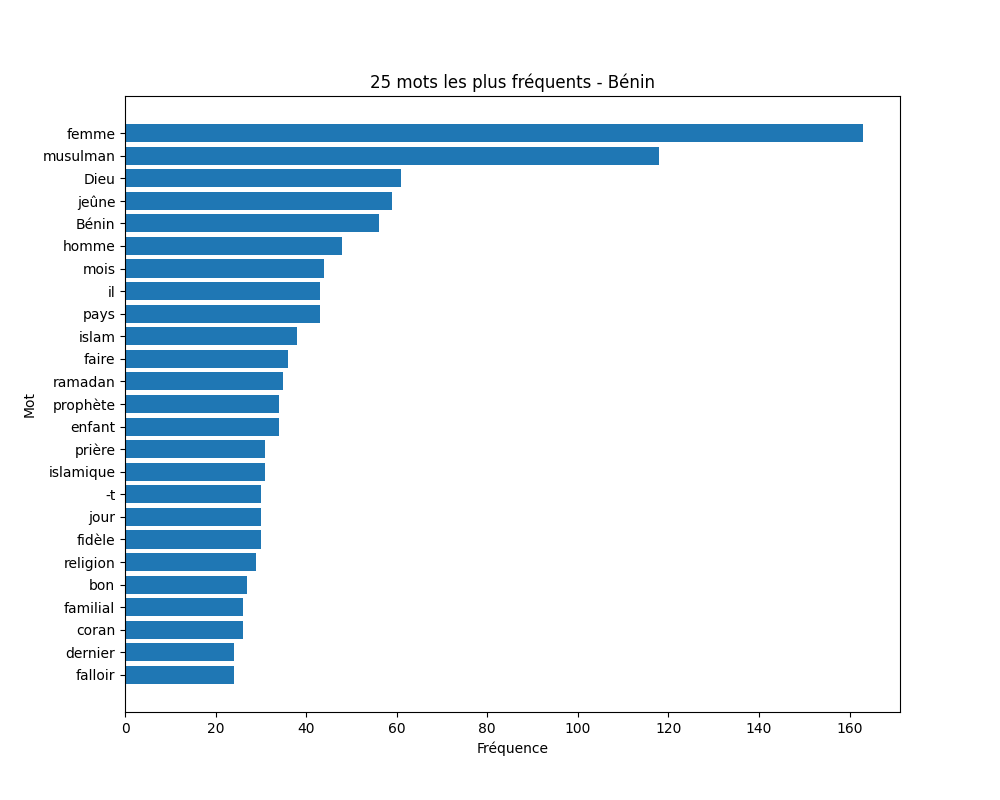
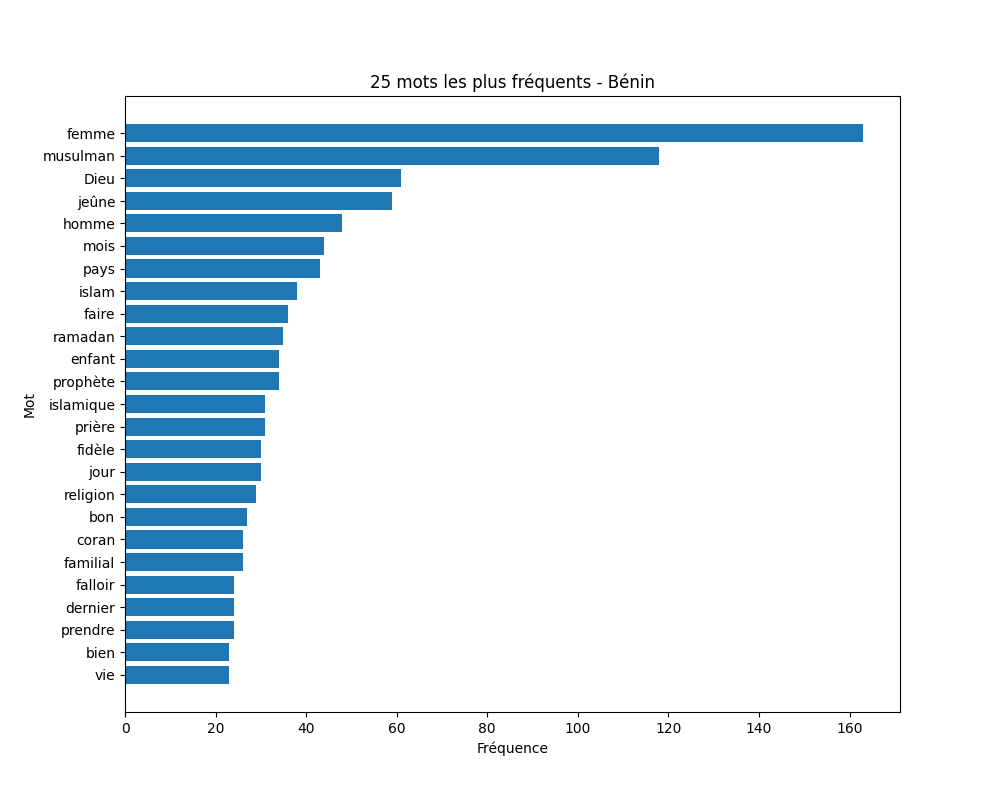
Fréquence des termes par pays

Changed region(s): [[0.031, 0.25, 0.124, 0.875], [0.217, 0.5, 0.279, 0.8438], [0.279, 0.25, 0.372, 0.4688]]

diff --git a/4. fréquence_termes.py b/4. fréquence_termes.py
@@ -7,7 +7,7 @@ url = 'https://raw.githubusercontent.com/fmadore/Musulmanes-presse/master/prepro
 df = pd.read_csv(url)
 
 # Liste des mots à exclure
-exclusion_list = ['être', 'Burkina']
+exclusion_list = ['être', 'Burkina', 'il', '-t', 'Bénin']
 
 
 # Fonction pour analyser la fréquence des mots et générer un graphique
